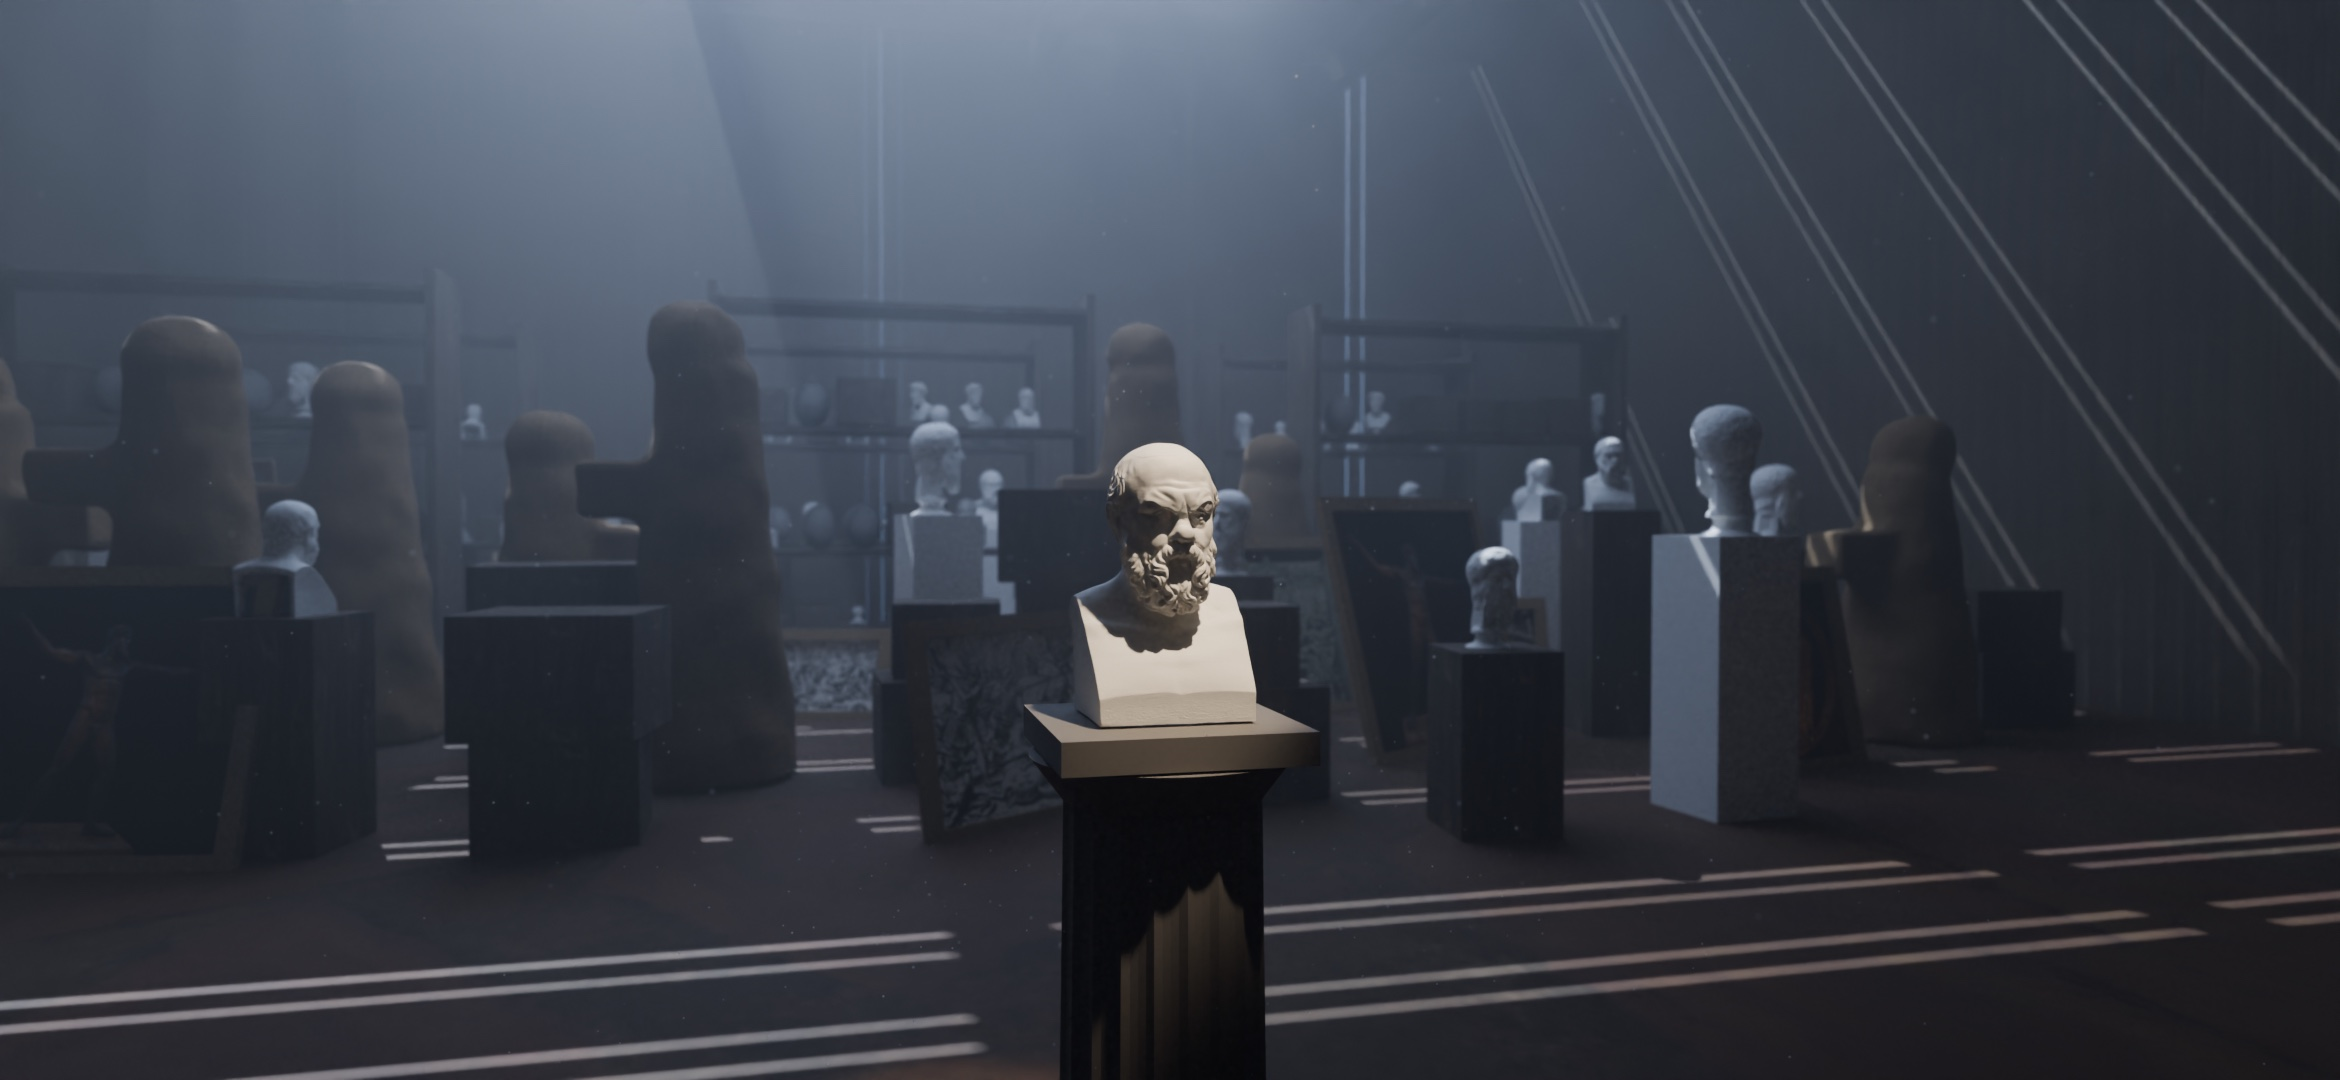
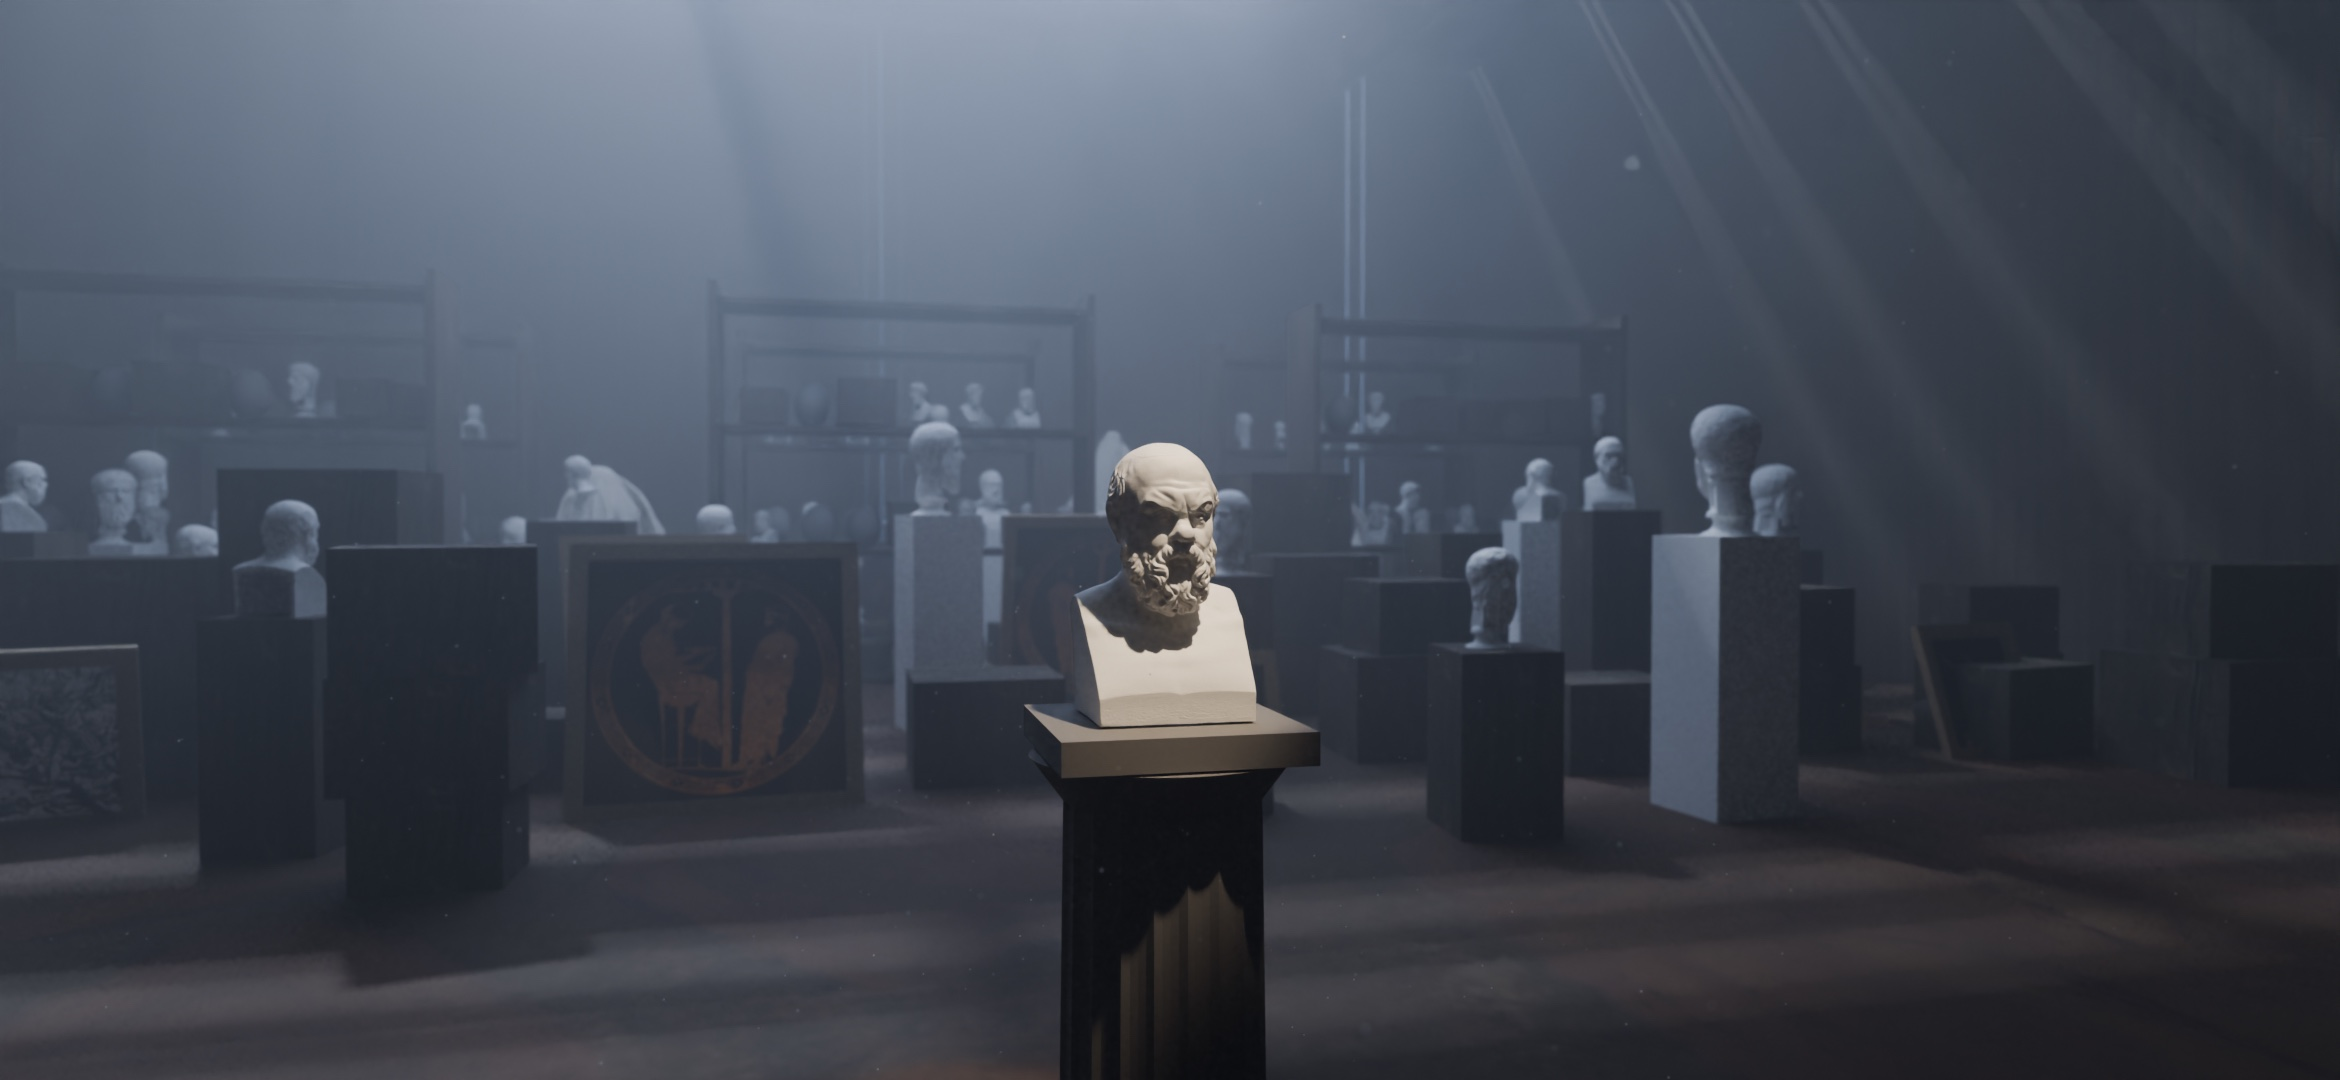
Linnanrakentaja: varasto-havainnekuva korjattu — pellavalakanat kangassimulaationa patsasmuotojen päällä syvemmällä, pehmeät tilavalosäteet kattoraoista (oikea seinä umpinainen), tauluja seinille ja hyllyille

diff --git a/tools/linssit/blender/ajattelijat_varasto.py b/tools/linssit/blender/ajattelijat_varasto.py
@@ -118,7 +118,7 @@ def lautaseina(alku, loppu, z0, z1, akseli, paikka, rako=0.012, leveys=0.22):
         else: laatikko('lauta', (paikka, t + lev / 2, (z0 + z1) / 2), (0.03, lev - r_, z1 - z0), PUU)
         t += lev
 lautaseina(X0, X1, 0, Z1, 'x', Y1); lautaseina(X0, X1, 0, Z1, 'x', Y0)
-lautaseina(Y0, Y1, 0, Z1, 'y', X0); lautaseina(Y0, Y1, 0, Z1, 'y', X1)
+lautaseina(Y0, Y1, 0, Z1, 'y', X0); lautaseina(Y0, Y1, 0, Z1, 'y', X1, rako=0.0)   # oikea seinä umpinainen (ei kovia viivoja)
 y_ = Y0                                                     # katto: poikittaiset laudat, muutama leveä rako (kattoluukut)
 while y_ < Y1:
     lev = 0.25; rako = 0.09 if rnd.random() < 0.12 else (0.006 if rnd.random() < 0.25 else 0.0)
@@ -159,29 +159,45 @@ for y in (9.0, 12.0):                                        # hyllyrivit
                 else:
                     bpy.ops.mesh.primitive_uv_sphere_add(radius=0.14, location=(xt + 0.15, y, zt + 0.16)); o = bpy.context.object
                     o.scale = (1, 1, 1.35); bpy.ops.object.shade_smooth(); o.data.materials.append(KIVI); xt += 0.35
-for k in range(9):                                           # suojakankaiden alla olevat isot patsaat
-    for _ in range(40):
-        x, y = rnd.uniform(-7, 7), rnd.uniform(4, 13)
-        if vapaa(x, y, 0.6): break
-    varatut.append((x, y, 0.6)); kork = rnd.uniform(1.6, 2.4)
-    bpy.ops.mesh.primitive_cone_add(vertices=32, radius1=rnd.uniform(0.42, 0.55), radius2=0.24, depth=kork, location=(x, y, kork / 2)); vartalo = bpy.context.object
-    bpy.ops.mesh.primitive_uv_sphere_add(radius=0.24, location=(x + rnd.uniform(-0.08, 0.08), y, kork + 0.12)); paa_ = bpy.context.object
-    bpy.ops.mesh.primitive_cube_add(size=1, location=(x + rnd.choice((-0.35, 0.35)), y, kork * rnd.uniform(0.6, 0.85))); kasi = bpy.context.object
-    kasi.scale = (0.55, 0.32, 0.28)   # olkapää/käsi verhon alla, ei tikku
-    bpy.ops.object.select_all(action='DESELECT')
-    for o in (vartalo, paa_, kasi): o.select_set(True)
-    bpy.context.view_layer.objects.active = vartalo; bpy.ops.object.join()
-    rm = vartalo.modifiers.new('verho', 'REMESH'); rm.mode = 'VOXEL'; rm.voxel_size = 0.04
-    tx = bpy.data.textures.new(f'rypyt{k}', 'CLOUDS'); tx.noise_scale = 0.32; tx.noise_depth = 3
-    dp = vartalo.modifiers.new('rypyt', 'DISPLACE'); dp.texture = tx; dp.strength = 0.11
-    sm = vartalo.modifiers.new('sile', 'SMOOTH'); sm.iterations = 4; sm.factor = 0.7
-    vartalo.data.materials.clear(); vartalo.data.materials.append(KANGAS); bpy.ops.object.shade_smooth()
-for k in range(14):                                          # taulut kehyksissä: nojaamassa hyllyihin, seinään ja toisiinsa
+# suojakankaiden alla olevat patsaat (Päätoimittaja 3.10.: vaalea haalistunut pellava, selvät laskokset, alta erottuu
+# pää, olkapäät ja kohotettu käsi; vähemmän ja syvemmällä): kangassimulaatio putoaa patsasmuodon päälle
+LAKANA = mat('lakana', (0.86, 0.83, 0.76), 0.9, f'{PH}/hessian_230/hessian_230_diff_2k.jpg', None, 3.0)
+for b_ in LAKANA.node_tree.nodes:
+    if b_.type == 'MIX': b_.inputs['Factor'].default_value = 0.25   # pellavan kuvio vain häivähdyksenä
+bpy.ops.mesh.primitive_plane_add(size=40, location=(0, 4, 0)); maa = bpy.context.object; maa.modifiers.new('t', 'COLLISION'); maa.hide_render = True
+for k in range(5):
+    for _ in range(60):
+        x, y = rnd.uniform(-6.5, 6.5), rnd.uniform(8.0, 13.2)
+        if vapaa(x, y, 0.8): break
+    varatut.append((x, y, 0.8)); kork = rnd.uniform(1.7, 2.2); puoli = rnd.choice((-1, 1))
+    muodot = []
+    bpy.ops.mesh.primitive_cone_add(vertices=24, radius1=0.40, radius2=0.26, depth=kork - 0.45, location=(x, y, (kork - 0.45) / 2)); muodot.append(bpy.context.object)
+    bpy.ops.mesh.primitive_uv_sphere_add(radius=0.15, location=(x, y - 0.02, kork - 0.25)); muodot.append(bpy.context.object)          # pää
+    bpy.ops.mesh.primitive_cylinder_add(radius=0.07, depth=0.75, location=(x + puoli * 0.32, y, kork - 0.05)); kasi = bpy.context.object
+    kasi.rotation_euler = (0, puoli * math.radians(-28), 0); muodot.append(kasi)                                                      # kohotettu käsi
+    bpy.ops.mesh.primitive_uv_sphere_add(radius=0.2, location=(x, y, kork - 0.5)); o_ = bpy.context.object; o_.scale = (1.6, 0.9, 0.6); muodot.append(o_)  # olkapäät
+    for o_ in muodot: o_.modifiers.new('t', 'COLLISION'); o_.collision.thickness_outer = 0.015
+    bpy.ops.mesh.primitive_grid_add(x_subdivisions=56, y_subdivisions=56, size=2.6, location=(x, y, kork + 0.45)); kan = bpy.context.object
+    kan.rotation_euler[2] = rnd.uniform(0, math.pi)
+    cl = kan.modifiers.new('kangas', 'CLOTH'); cs = cl.settings; cs.quality = 6; cs.mass = 0.25; cs.bending_stiffness = 0.6
+    cs.tension_stiffness = 12; cs.compression_stiffness = 12; cl.collision_settings.distance_min = 0.008
+    cl.collision_settings.use_self_collision = True; cl.collision_settings.self_distance_min = 0.006
+    cl.point_cache.frame_start, cl.point_cache.frame_end = 1, 70
+    for f_ in range(1, 71): sc.frame_set(f_)
+    bpy.context.view_layer.objects.active = kan; bpy.ops.object.modifier_apply(modifier='kangas')
+    kan.modifiers.new('paksuus', 'SOLIDIFY').thickness = 0.006; kan.modifiers.new('sile', 'SUBSURF').levels = 1
+    kan.data.materials.append(LAKANA); bpy.ops.object.shade_smooth()
+    for o_ in muodot: o_.hide_render = True
+sc.frame_set(1)
+for k in range(30):                                          # taulut kehyksissä: nojaamassa hyllyihin, seinään ja toisiinsa
     kuva = KUVAT[k % len(KUVAT)]; img = bpy.data.images.load(kuva, check_existing=True); sk = img.size[1] / max(img.size[0], 1)
     lev = rnd.uniform(0.6, 1.4); kork = lev * sk
-    for _ in range(40):
-        x, y = rnd.uniform(-6.5, 6.5), rnd.uniform(3.5, 11)
-        if vapaa(x, y, lev * 0.5): break
+    paikka_ = k % 3   # 0 = takaseinä, 1 = hyllyrivin eteen, 2 = vapaasti lattialle
+    for _ in range(60):
+        if paikka_ == 0: x, y = rnd.uniform(-7.0, 7.0), Y1 - 0.35
+        elif paikka_ == 1: x, y = rnd.uniform(-6.3, 6.3), rnd.choice((9.0, 12.0)) - 0.55
+        else: x, y = rnd.uniform(-6.5, 6.5), rnd.uniform(3.5, 11)
+        if paikka_ != 2 or vapaa(x, y, lev * 0.5): break
     varatut.append((x, y, lev * 0.5)); kierto = (0.0 if rnd.random() < 0.8 else math.pi) + rnd.uniform(-0.6, 0.6)   # useimmat kasvot kameraan päin
     bpy.ops.mesh.primitive_plane_add(size=1, location=(0, 0, 0)); taulu = bpy.context.object
     taulu.scale = (lev, kork, 1); bpy.ops.object.transform_apply(scale=True)
@@ -208,12 +224,12 @@ w.node_tree.nodes['Background'].inputs['Color'].default_value = (0.35, 0.55, 1.0
 vol = bpy.data.materials.new('pöly'); vol.use_nodes = True; vn = vol.node_tree; vn.nodes.remove(vn.nodes['Principled BSDF'])
 vs = vn.nodes.new('ShaderNodeVolumeScatter'); vs.inputs['Density'].default_value = 0.035; vs.inputs['Anisotropy'].default_value = 0.65
 nz = vn.nodes.new('ShaderNodeTexNoise'); nz.inputs['Scale'].default_value = 0.6
-ma = vn.nodes.new('ShaderNodeMath'); ma.operation = 'MULTIPLY_ADD'; ma.inputs[1].default_value = 0.05; ma.inputs[2].default_value = 0.022
+ma = vn.nodes.new('ShaderNodeMath'); ma.operation = 'MULTIPLY_ADD'; ma.inputs[1].default_value = 0.06; ma.inputs[2].default_value = 0.035
 vn.links.new(nz.outputs['Fac'], ma.inputs[0]); vn.links.new(ma.outputs['Value'], vs.inputs['Density'])
 vn.links.new(vs.outputs['Volume'], vn.nodes['Material Output'].inputs['Volume'])
 ilma = laatikko('ilma', ((X0 + X1) / 2, (Y0 + Y1) / 2, Z1 / 2), (X1 - X0 - 0.1, Y1 - Y0 - 0.1, Z1 - 0.1), vol)
 ilma.visible_shadow = False
-aur = bpy.data.lights.new('aurinko', 'SUN'); aur.energy = 30.0; aur.color = (0.70, 0.82, 1.0); aur.angle = math.radians(0.4)
+aur = bpy.data.lights.new('aurinko', 'SUN'); aur.energy = 30.0; aur.color = (0.70, 0.82, 1.0); aur.angle = math.radians(3.0)   # säde leviää raosta
 ao = bpy.data.objects.new('aurinko', aur); sc.collection.objects.link(ao); ao.rotation_euler = (math.radians(38), 0, math.radians(200))
 kp = bpy.data.lights.new('keila', 'SPOT'); kp.energy = 700; kp.spot_size = math.radians(13); kp.spot_blend = 0.55
 kp.color = (1.0, 0.80, 0.58); kp.shadow_soft_size = 0.05
